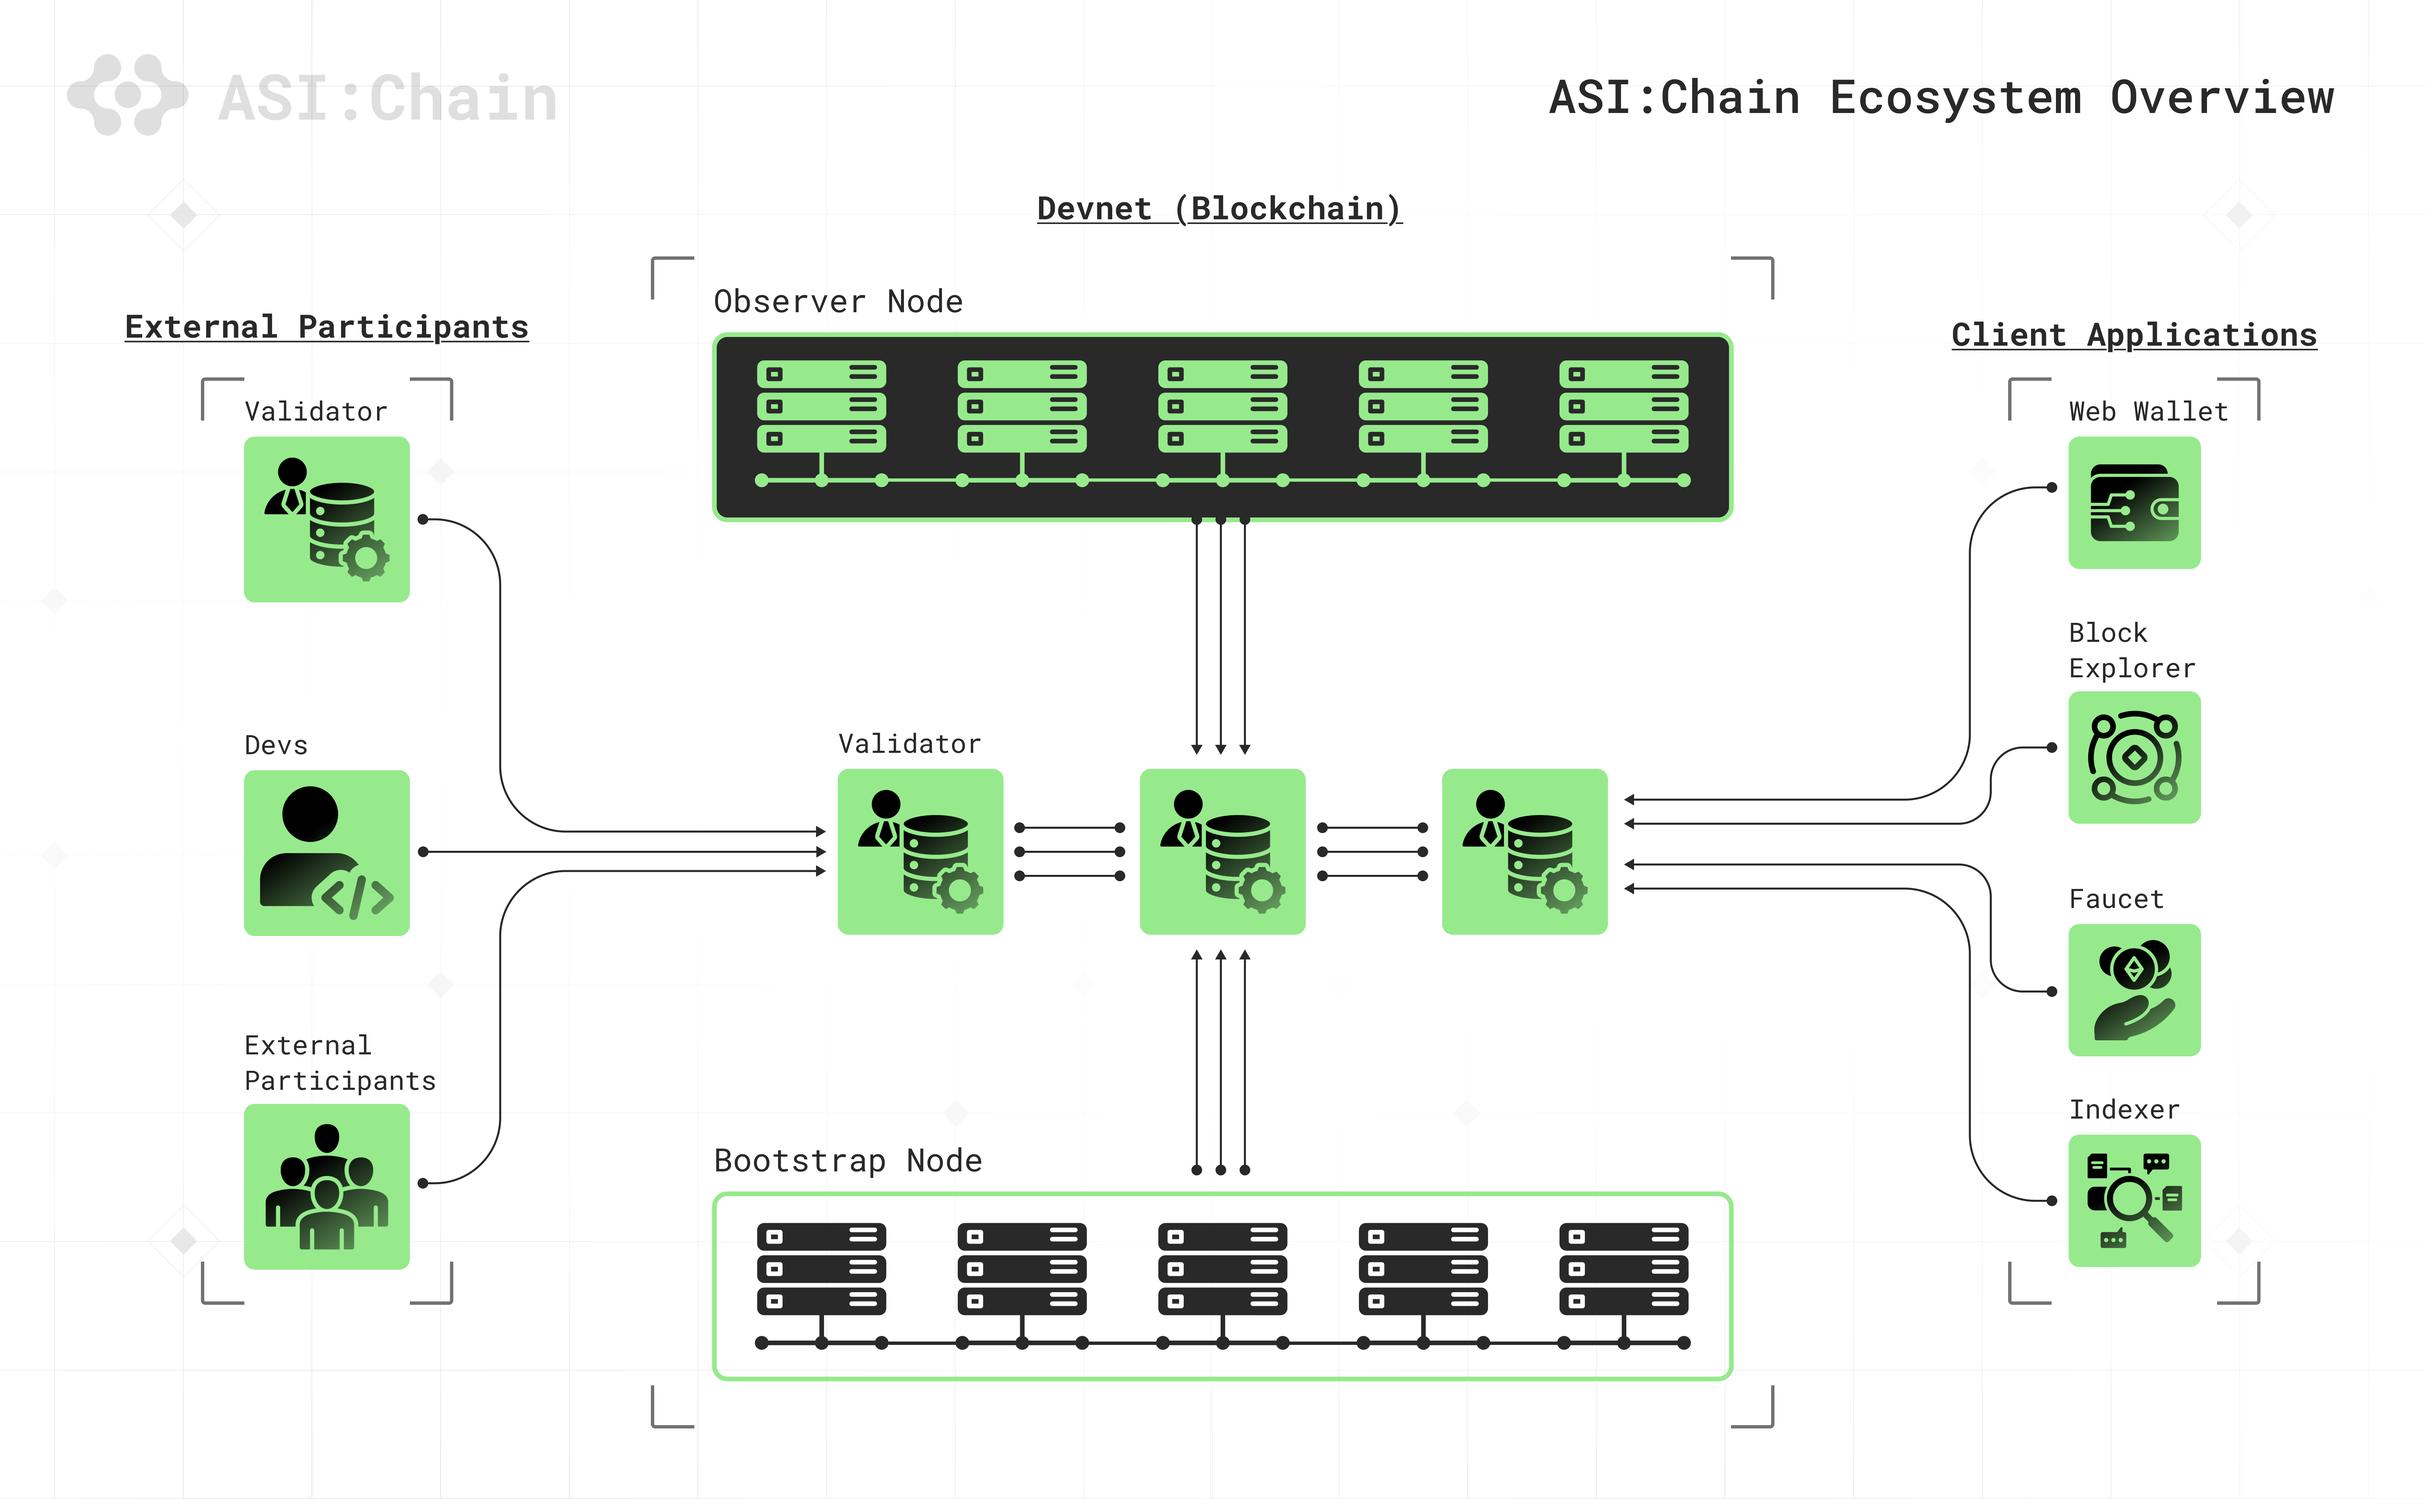
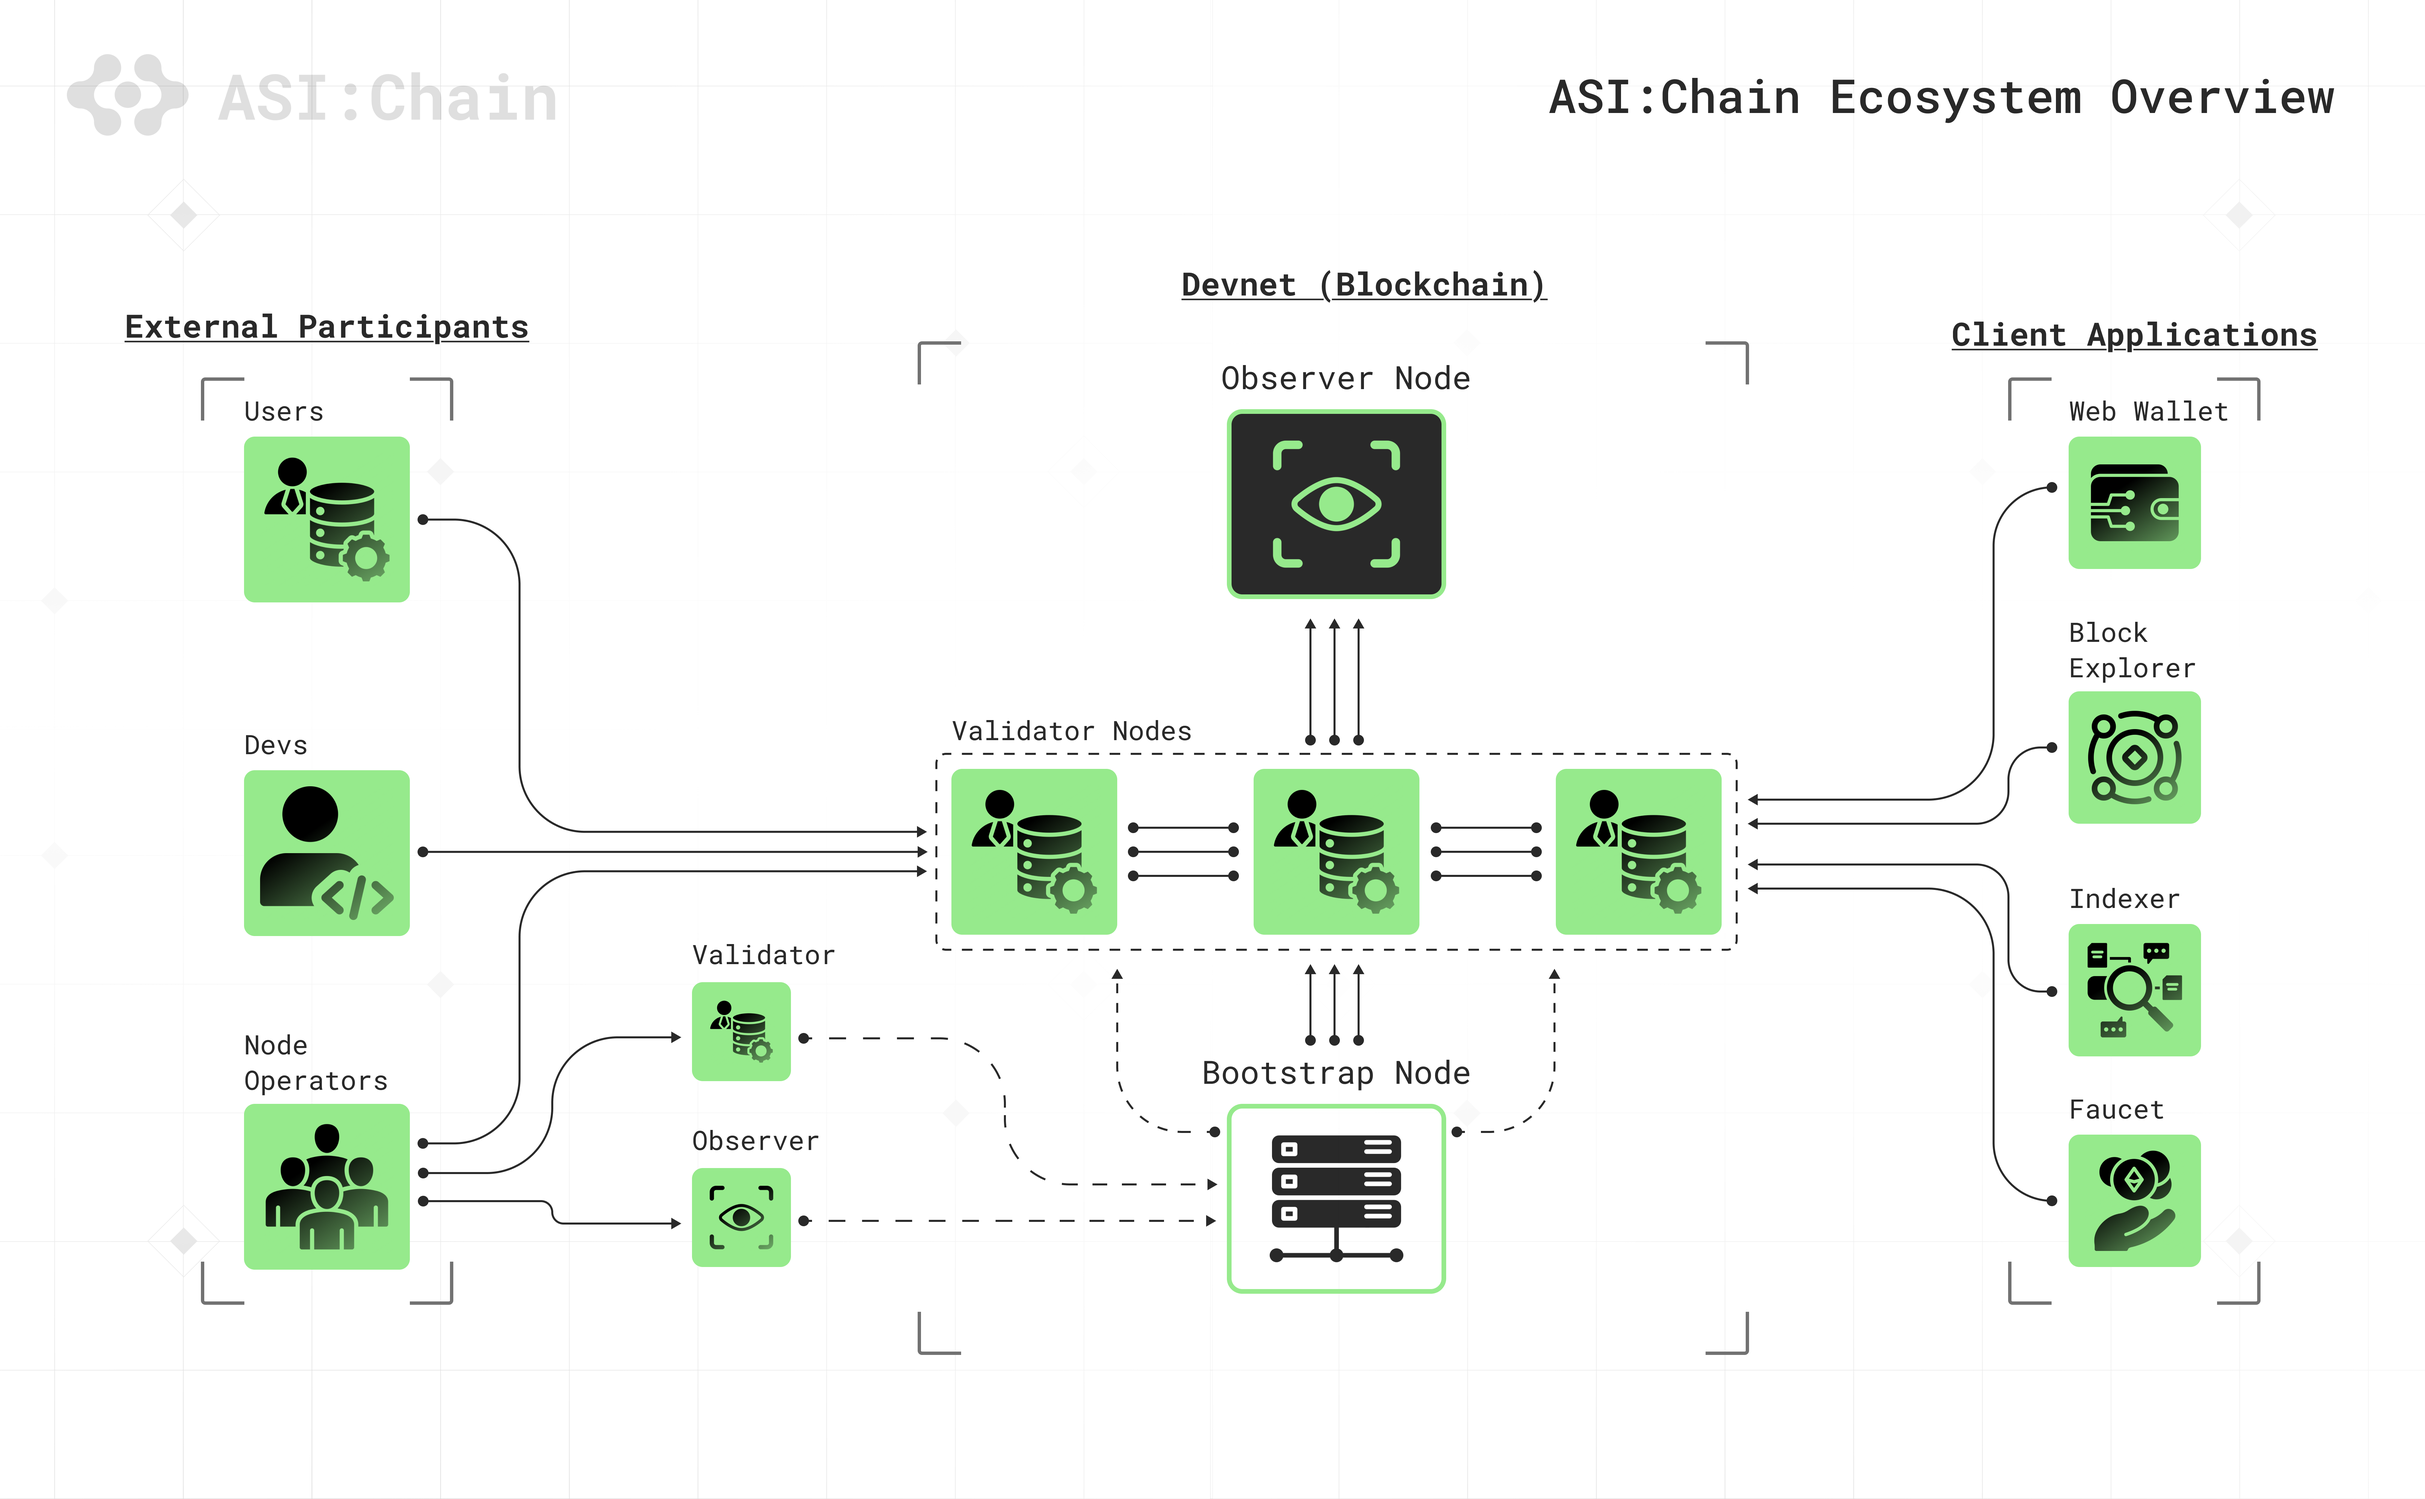
docs: add ecosystem overview and workflow diagrams, remove ASCII diagrams

diff --git a/general/overview/index.md b/general/overview/index.md
@@ -76,36 +76,7 @@ The **Faucet** distributes test ASI tokens for development and testing.
 
 ## Network Architecture
 
-```
-                    ┌─────────────┐
-                    │  Bootstrap  │
-                    │    Node     │
-                    └──────┬──────┘
-                           │
-          ┌────────────────┼────────────────┐
-          │                │                │
-          ▼                ▼                ▼
-    ┌───────────┐    ┌───────────┐    ┌───────────┐
-    │Validator 1│    │Validator 2│    │Validator 3│
-    │           │    │           │    │           │
-    └─────┬─────┘    └─────┬─────┘    └─────┬─────┘
-          │                │                │
-          └────────────────┼────────────────┘
-                           │
-                           ▼
-                    ┌─────────────┐
-                    │  Observer   │
-                    │    Node     │
-                    └─────────────┘
-                           │
-          ┌────────────────┼────────────────┐
-          │                │                │
-          ▼                ▼                ▼
-    ┌───────────┐    ┌───────────┐    ┌───────────┐
-    │  Wallet   │    │ Explorer  │    │  Faucet   │
-    │(Web App)  │    │(Web App)  │    │(Web App)  │
-    └───────────┘    └───────────┘    └───────────┘
-```
+The network architecture is detailed in the [DevNet Structure & Entities](/shard-nodes/devnet-structure/) guide.
 
 ## How External Validators Connect
 
@@ -119,23 +90,45 @@ External participants can join the DevNet as validators:
 
 ## Use Cases
 
-### For Developers
-- Deploy and test smart contracts
-- Build decentralized applications
-- Experiment with Rholang programming
-- Test token transfers and transactions
+![ASI:Chain Workflows](/images/asi-chain-workflows.png)
 
-### For Validators
-- Participate in network consensus
-- Earn experience running blockchain infrastructure
-- Test validator setup and configuration
-- Contribute to network security
+### 1. Funds Transfers & Smart Contract Deployments
 
-### For Users
-- Manage digital assets
-- Transfer tokens between accounts
-- Monitor network activity
-- Explore blockchain data
+**Users and Developers** can interact with the DevNet through the Web Wallet:
+
+**Transaction Flow:**
+- User/Developer → Web Wallet → DevNet
+
+**Capabilities:**
+- Send ASI tokens between accounts
+- Deploy smart contracts written in Rholang
+- Execute contract functions
+- Monitor transaction status
+
+**Read Data:**
+- Check account balances
+- View transaction history through Block Explorer
+- Explorer → DevNet (read-only access)
+
+### 2. Running a DevNet Node
+
+**Node Operators** can join the network by running their own validator or observer node:
+
+**Setup Flow:**
+- Node Operator → Configure Node → Bootstrap Node → DevNet Network
+
+**Options:**
+- **Validator Node:** Participate in consensus and block production
+- **Observer Node:** Read-only access for monitoring and queries
+
+**Process:**
+1. Generate validator keys using the wallet
+2. Configure node with proper settings
+3. Connect to Bootstrap Node for network discovery
+4. Sync with Validators and Observers in the network
+5. Begin participating (validator) or observing (observer)
+
+See [Join DevNet as Validator](/quick-start/join-validator/) or [Join DevNet as Observer](/quick-start/join-observer/) for detailed setup guides.
 
 ## Technology Stack
 

diff --git a/shard-nodes/devnet-structure/index.md b/shard-nodes/devnet-structure/index.md
@@ -166,46 +166,7 @@ gRPC: 54.152.57.201:40451
 
 ### Visual Diagram
 
-```
-                    ┌─────────────────┐
-                    │  Bootstrap Node │
-                    │  (Entry Point)  │
-                    │  54.152.57.201  │
-                    └────────┬────────┘
-                             │
-            ┌────────────────┼────────────────┐
-            │                │                │
-            ▼                ▼                ▼
-    ┌──────────────┐  ┌──────────────┐  ┌──────────────┐
-    │ Validator 1  │  │ Validator 2  │  │ Validator 3  │
-    │  (Consensus) │  │  (Consensus) │  │  (Consensus) │
-    │     + ASI    │  │     + ASI    │  │  + External  │
-    └──────┬───────┘  └──────┬───────┘  └───────┬──────┘
-           │                 │                  │
-           └─────────────────┼──────────────────┘
-                             │
-                             ▼
-                    ┌─────────────────┐
-                    │  Observer Node  │
-                    │  (Read-Only)    │
-                    │  54.152.57.201  │
-                    └────────┬────────┘
-                             │
-            ┌────────────────┼────────────────┬─────────────┐
-            │                │                │             │
-            ▼                ▼                ▼             ▼
-    ┌──────────────┐  ┌──────────────┐  ┌──────────────┐  ┌──────────────┐
-    │   Wallet     │  │   Explorer   │  │   Indexer    │  │   Faucet     │
-    │  (Web App)   │  │  (Web App)   │  │  (Service)   │  │  (Web App)   │
-    │  wallet.dev  │  │ explorer.dev │  │ indexer.dev  │  │  faucet.dev  │
-    └──────────────┘  └──────────────┘  └──────────────┘  └──────────────┘
-            │                │                              
-            └────────────────┤  Direct User Access
-                             ▼
-                        ┌──────────┐
-                        │  Users   │
-                        └──────────┘
-```
+![ASI:Chain Ecosystem Overview](/images/asi-chain-ecosystem-overview.png)
 
 ### Communication Flow
 

diff --git a/quick-start/join-validator/index.md b/quick-start/join-validator/index.md
@@ -2,6 +2,8 @@
 
 This guide will help you join the ASI:Chain DevNet as a validator and participate in network consensus.
 
+![ASI:Chain Workflows](/images/asi-chain-workflows.png)
+
 ## What is a Validator?
 
 Validators are nodes that:

diff --git a/index.md b/index.md
@@ -73,6 +73,8 @@ ASI:Chain is a blockchain network built for the ASI Alliance ecosystem, powered 
 
 ### Choose Your Path
 
+![ASI:Chain Workflows](/images/asi-chain-workflows.png)
+
 <div class="vp-feature-grid">
 
 **Developers**
